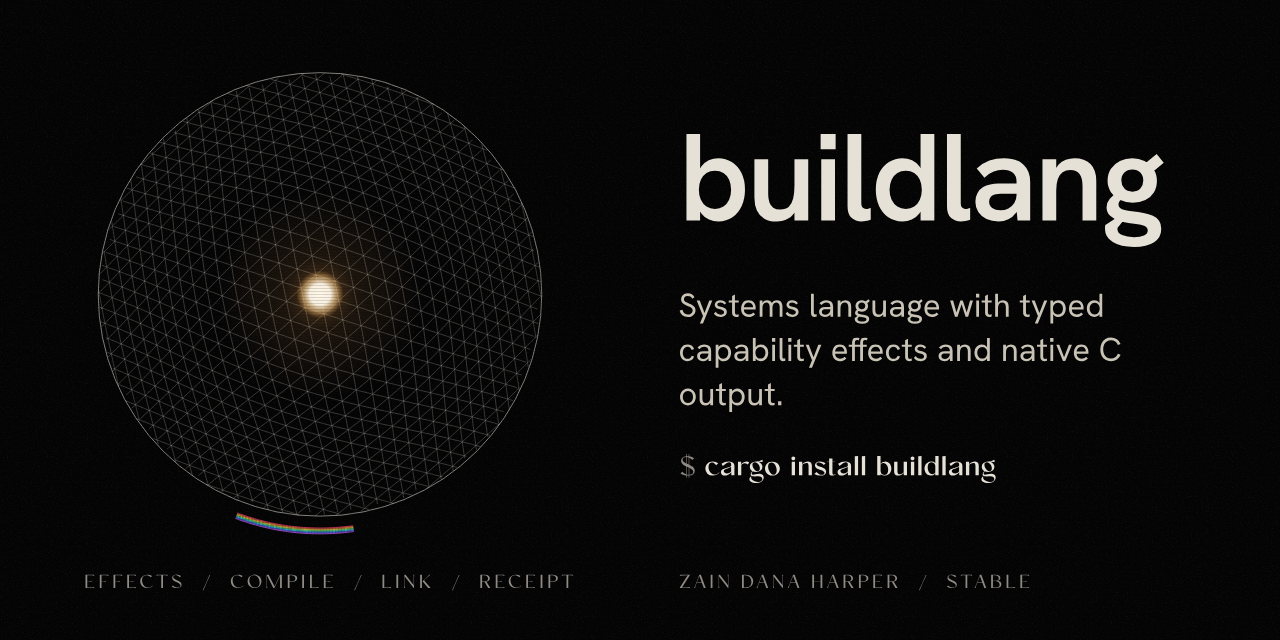
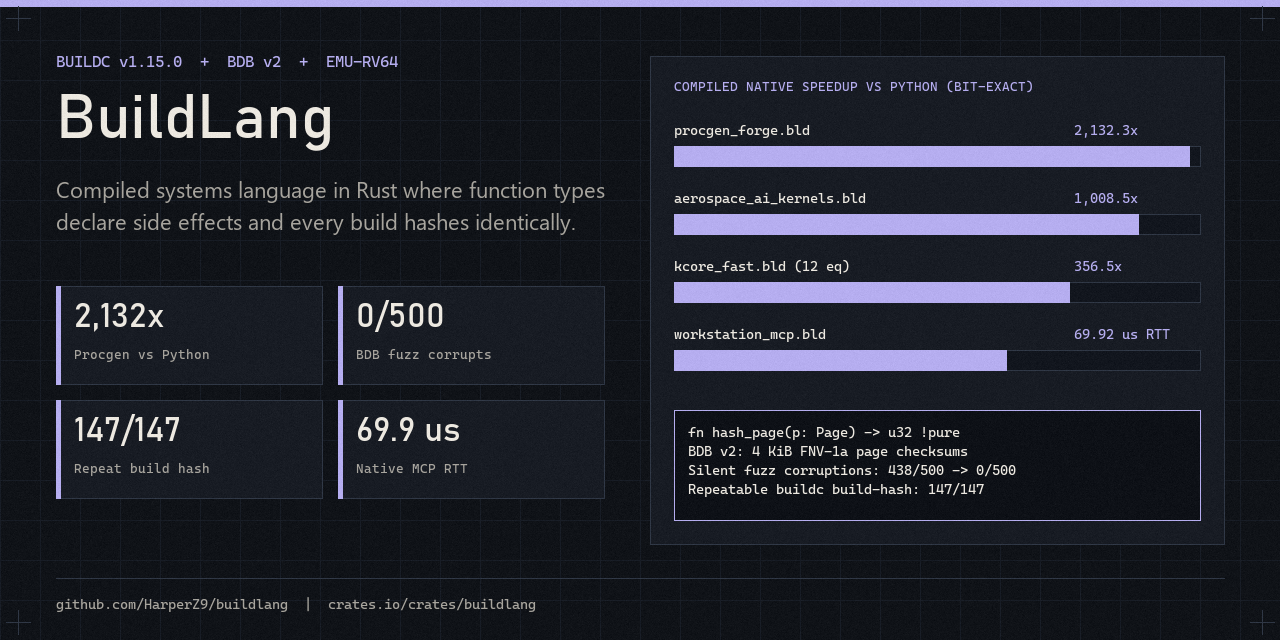
docs: refresh README and STATUS for buildc 1.15.0, BuildDB checksums, and workstation kernels (#337)
* docs: refresh README and STATUS for buildc 1.15.0, BuildDB checksums, and workstation kernels

* docs(art): update 1280x640 social preview card from Wave 16C media overhaul

---------

diff --git a/STATUS.md b/STATUS.md
@@ -4,7 +4,7 @@ Release verification: 2026-11-14 for 1.15.0. The broader architecture audit rema
 2026-06-15; dated findings below retain their original scope. Current direction:
 `docs/STRATEGY-2026-10.md`; what finished means and how far it is: `docs/LANGUAGE-COMPLETE.md`.
 
-Unreleased, on main since 1.15.0: the Build Universe tree is in `universe/` (the build-universe repository until 2026-11-15). The `universe` workflow runs `buildc check` on each of its 268 `.bld` files with the compiler of the same commit. With the compiler CI built from main on 2026-11-16 (`buildc` 1.15.0, Linux), 81 pass and 187 fail (1 at the lexer, 21 at the parser, 165 at the type and effect check); `universe/CHECK-FAILS.txt` names every failing file and CI fails when that list stops being true. Most failing modules were written ahead of the compiler and call library methods and fields that do not exist yet. The 16 library modules registered for a C build (`universe/tools/components.toml`) all fail it; the `organism` job runs each one as an expected failure and fails when one starts to pass (issue #290). No job skips a component.
+Unreleased, on main since 1.15.0 (updated 2026-11-26): the Build Universe tree is in `universe/` (consolidated from build-universe on 2026-11-15). The `universe` workflow runs `buildc check` on all 275 `.bld` files with the compiler of the same commit. As of `53925ff6`, **104 pass** and **171 fail** in `universe/CHECK-FAILS.txt` (down from 195/267 on initial import); CI fails whenever that list drifts. `tests/features/GAPS.txt` is down to **4** open gaps (`98/102` passing) after closing `float_exponent_format`, `user_fn_named_exit`, and the `while`/`loop` return-check soundness bug. BuildDB (`bdb/db.bld`) now validates 32-bit FNV-1a checksums on every 4 KiB page and header (`0/500` silent fuzz corruptions, down from `438/500`). `universe/workstation/` ships compiled, `par_for` thread-count-invariant `f64` kernels (`kcore_fast.bld`, `sota_ml_physics_kernels.bld`) and the native compiled stdio MCP server (`workstation_mcp.bld`). The 16 library modules registered for a C build (`universe/tools/components.toml`) remain tracked as expected failures under issue #290, and no job skips a component.
 
 1.15.0 was released on CI's result: the `CI` workflow's `cargo test` passed on Linux and Windows on the release head, and no full local run was made for it. 1.15.0 adds two experimental targets written by the compiler itself, x86-64 executables (`--target x86_64-native`, integers, control flow, calls and printing; 9 of 9 programs equal to the C backend on Windows x64) and binary WebAssembly modules and libraries (`--target wasm`; the registry's `sha256` and `merkle` packages run in Node and match), runs `Drop`, lets a handler clause resume at the `perform` site, makes a range of a vector a view, stops the program on a failed `unwrap` or `assert!`, adds the `port` tool for a C subset, and brings the Build suite into `suite/` (CHANGELOG 1.15.0). The paragraph below is the 1.14.0 record.
 
@@ -104,8 +104,8 @@ The Effects Language -- algebraic effects as a first-class feature.
 - **Interprocedural Lifetime Analysis** (Phase 1): Lifetime parameters flow through `FnTy` (function types), enabling precise borrow tracking at call sites. Functions like `fn pick<'a, 'b>(x: &'a i32, y: &'b i32) -> &'a i32` correctly propagate only the `'a`-linked borrow. Return lifetime mismatches (returning `'b` where `'a` expected) are rejected with clear errors. 8 new unit tests, 3 integration test programs.
 - **Historical CI-shaped cargo baseline (2026-07-02, invariant family complete)**: lib 940, bin 140, cli 309, lexer 52, parser 88 (0 failed; 3 lib + 8 doc-test ignored) via `cargo test` from `compiler/`; `cargo fmt --check` clean; corpus 8/8. The rise from the `939/81/301` wind-down baseline is Phases A/B/C/D1-D3 of the Telos master-plan mandate: the receipt export bridge, the capability-witnessed receipt fields, and the seven-member invariant family (conservation, bounded, energy-identity, relation, conserved-band, non-negative) with their paired kernels and multi-column capture. (Prior 2026-06-23 baseline was 1002 passed / 0 failed / 11 ignored under a different aggregation.)
 - **Historical CI-shaped cargo baseline (2026-07-29, model boundary receipts verify arm)**: lib 1001 passed, 3 ignored, bin 195 (+10 model_receipt.rs tamper/seal/golden-fixture unit tests), cli 346 (+5 model-receipt CLI integration tests: golden fixture, seal mismatch, resealed field-shape violation, chain-allowlist refusal, propose/dispose chain with a tampered model member), gpu 12, lexer 52, parser 98 -- 1704 passed, 0 failed, 11 ignored total, via `cargo test` from `compiler/`; `cargo fmt --check` clean; `buildc receipt corpus examples/scientific-corpus.json` 30/30 (unchanged: the model receipt is a different artifact kind, not a corpus member); verifier `--self-test` 10/10 (unchanged: scientific-runtime-only table); `buildc corpus verify` (the 8-program semantic corpus, a separate C-backend regression check) stays 8/8. The rise from the 2026-07-02 `940/140/309/52/88` baseline above is the five-modes wave (2026-07-28 to 2026-07-29): the `Random` capability with witnessed-seed receipts, Monte Carlo estimator receipts, budgeted-search receipts, the `Model` capability's propose/dispose refusal, cross-backend relation receipts through the Rust backend (the invariant family's eighth member), wall-clock metering (`runtime_state.wall_seconds`, the receipt's first EXECUTED budget fact), executed Monte Carlo intervals with a witnessed denominator (the `monte_carlo` block's EXECUTED status), split-frontier drop flags (memory pillar increment 5, opt-in), and unit-annotated numeric types (checker slice one, experimental). Detail: `docs/FIVE-MODES-TOUR.md`.
-- **Linear types `#[linear]` (2026-07-01, experimental — best-effort LINT, not a proven-sound checker):** opt-in no-cloning. A `#[linear]` struct/enum value is tracked as a resource that should be moved/consumed at most once -- the shared foundation for quantum qubit no-cloning, on-chain no-double-spend, and fin-sec resource-handle safety. Now enforced by **two layers**: the conservative AST gate (sound-over-complete name tracking + containment rule) AND a new **MIR affine/borrow checker** (`codegen/analysis/linear.rs`, built on the reusable `codegen::analysis` dataflow substrate) that runs post-lowering and closes the classes the name tracker cannot follow -- move-out-of-shared-borrow (incl. laundered through aggregates/returns and higher-order fn-pointers), field-extract from an owned linear aggregate, generic deref-and-return, and struct/enum record-pattern-through-`&`. Verified by repeated empirical adversarial sweeps (`buildc check` on constructed clones, confirmed with `buildc run`). **Not yet fully sound (do NOT claim a soundness guarantee):** known residual = `&mut`-match payload move + un-enumerated advanced corners; a complete affine checker is a deliberate multi-brick effort (cf. Rust's borrow checker). Honest scope: `docs/LINEAR-TYPES.md`. Ordinary types are unaffected (copy-like reuse preserved).
-- **Multiple dispatch (2026-07-01, static):** Julia-style — multiple functions may share one name, and a call selects the method by the tuple of ALL argument types (not just the receiver), resolved statically via one shared resolver (`types/dispatch.rs`) used by both the checker and codegen. Specificity: exact > coercion/concrete > generic; ambiguity and no-match are ERRORS (never a silent pick). Generic and concrete defs of a name compose (concrete wins when it matches, else the generic monomorphizes). Backward-compatible: only overloaded (2+ def) names are mangled, so single-def names and `extern "C"` FFI are byte-identical (verified by a 22/22 differential C sweep). Deferred: operator overloading on both operands (still left-operand-only), and dynamic runtime-type dispatch (no runtime type descriptors yet). Details: `docs/MULTIPLE-DISPATCH.md`.
+- **Linear types `#[linear]` (2026-07-01, experimental - best-effort LINT, not a proven-sound checker):** opt-in no-cloning. A `#[linear]` struct/enum value is tracked as a resource that should be moved/consumed at most once -- the shared foundation for quantum qubit no-cloning, on-chain no-double-spend, and fin-sec resource-handle safety. Now enforced by **two layers**: the conservative AST gate (sound-over-complete name tracking + containment rule) AND a new **MIR affine/borrow checker** (`codegen/analysis/linear.rs`, built on the reusable `codegen::analysis` dataflow substrate) that runs post-lowering and closes the classes the name tracker cannot follow -- move-out-of-shared-borrow (incl. laundered through aggregates/returns and higher-order fn-pointers), field-extract from an owned linear aggregate, generic deref-and-return, and struct/enum record-pattern-through-`&`. Verified by repeated empirical adversarial sweeps (`buildc check` on constructed clones, confirmed with `buildc run`). **Not yet fully sound (do NOT claim a soundness guarantee):** known residual = `&mut`-match payload move + un-enumerated advanced corners; a complete affine checker is a deliberate multi-brick effort (cf. Rust's borrow checker). Honest scope: `docs/LINEAR-TYPES.md`. Ordinary types are unaffected (copy-like reuse preserved).
+- **Multiple dispatch (2026-07-01, static):** Julia-style: multiple functions may share one name, and a call selects the method by the tuple of ALL argument types (not just the receiver), resolved statically via one shared resolver (`types/dispatch.rs`) used by both the checker and codegen. Specificity: exact > coercion/concrete > generic; ambiguity and no-match are ERRORS (never a silent pick). Generic and concrete defs of a name compose (concrete wins when it matches, else the generic monomorphizes). Backward-compatible: only overloaded (2+ def) names are mangled, so single-def names and `extern "C"` FFI are byte-identical (verified by a 22/22 differential C sweep). Deferred: operator overloading on both operands (still left-operand-only), and dynamic runtime-type dispatch (no runtime type descriptors yet). Details: `docs/MULTIPLE-DISPATCH.md`.
 - **Math syntax (2026-07-01, Pillar B):** four additive, backward-compatible features (each verified by a differential C sweep showing existing programs unchanged). (1) **Broadcasting operators `.+ .- .* ./`** over fixed-size `Array<T,N>` (the type of an array literal `[..]`), including scalar broadcast in both directions; length agreement is a COMPILE-TIME check carried in the `Array<T,N>` type (no runtime dimension check), and codegen desugars each operator into an unrolled array of per-element SCALAR MIR ops, so the broadcast ops never reach any backend. (2) **`linalg` stdlib module** (`stdlib/linalg.bld`): free functions `vec_add/sub/mul/div`, `vec_scale`, `vec_scalar_add`, `vec_dot`, `vec_sum`, `vec_norm` over the dynamic `Vec<f64>`, no compiler/runtime change. (3) **`**` power** wired to the pre-existing `BinOp::Pow` (right-associative, `-2 ** 2 == -4`; prefix `**x` stays double-deref, so no pointer code changes). (4) **Unicode operator aliases** `× · ∙ -> *`, `÷ -> /`, `− -> -`. Honest scope: this is elementwise broadcasting over FIXED-SIZE arrays plus a 1-D vector library over DYNAMIC `Vec<f64>` (two distinct surfaces: operators work on array literals, the library on `Vec`; a `Vec` cannot yet use `.+`), NOT Julia-parity linear algebra. Deferred: dynamic-`Vec` broadcasting operators, a true 2-D `Matrix{T}` with linear algebra (no N-D MIR type exists), `f32` element parity, and broadcast comparisons/`.^`. Details: `docs/MATH-SYNTAX.md`.
 - **Scientific-runtime receipt + invariant family (2026-07-02, accountable compute):** `buildc run --emit-receipt <path>` compiles and runs a `.bld` program, captures its numeric stdout as a measurement series, checks a stated invariant over that series, and emits a sealed, re-checkable JSON receipt (`buildlang-scientific-runtime-receipt/v1`; v0 receipts still verify). `buildc receipt verify` RE-RUNS the program, re-derives the source and effect-policy facts, and re-checks the invariant verdict (drift, tamper, or source change fails with a typed `failure_class`; version drift WARNs). The **invariant family** now has EIGHT members, each a fixed re-checked tolerance and a paired positive/negative kernel: `energy-monotone` (non-increasing), `conservation` (constant within tol of the initial value), `bounded` (never exceeds the initial value: the discrete maximum principle), `energy-identity` (a QUANTITATIVE per-step energy-balance residual held at roundoff, the FTCS discrete analogue of `d/dt integral(u^2) = -2*alpha*integral(u_x^2)`), `relation` (`--columns N`: the VERIFIER checks the columns of each row agree, so a program printing two independent computations of a quantity cannot hide a divergence), `conserved-band` (APPROXIMATE conservation within a fixed error budget, e.g. a symplectic leapfrog integrator's energy oscillating in an O(dt^2) band while explicit Euler drifts out), `non-negative` (an absolute lower floor: no value drops below zero, the companion to `bounded` and the family's first ALGORITHMIC use, witnessing that a binary search's probe-count slack stays non-negative under its proven bound), and `cross_backend_columns_agree` (`--cross-backend rust`: the VERIFIER re-runs the kernel through BOTH the C and Rust backends and checks their interleaved columns agree within tolerance, added 2026-07-28). Beyond physics kernels (heat, rotation, oscillator, symplectic) it also ships a reaction-network demo (`A + B <=> C` atom balance) and a cross-column relation demo. The receipt also carries capability-derived witnessed-absence fields (input_dataset / seed / determinism, fail-closed from the effect system) and a `receipt export` bridge that re-verifies and emits WITNESSED Crucible measurements. Additive: `run` without `--emit-receipt` is byte-identical; the `buildlang-check-receipt/v1` verify path is unchanged. Scope: the receipt records that the compiled program's observed output series satisfies (or, for a negative fixture, violates) the invariant; every receipt carries the `NUMERICAL_RESULT` label and a `scope` list of what it covers. **Four admission blocks (2026-07-28 to 2026-07-29)** now extend the schema beyond the base fields, each declared all-or-nothing and re-checked against its own `FIELD_CONTRACT_VIOLATION` shape contract: `seed` for the new `Random` capability (a witnessed seed, a `NOT_APPLICABLE`/`SEALED`/`UNSEEDED` trichotomy), `monte_carlo` (`--mc-estimator`/`--mc-samples`/`--mc-interval`, sealing an estimator's declaration discipline over its denominator and interval method, never the interval's correctness), `budget` (`--budget-steps`/`--budget-consumed`, a DERIVED `exhausted` flag, `BEST_FOUND_WITHIN_BUDGET` on every budgeted receipt, plus an optional `--budget-wall-seconds` ceiling), and `cross_backend` (`--cross-backend rust`, EXECUTED not DECLARED, re-run through both backends at verify). A separate new `Model` capability (`model_complete`, a line-protocol call to `BUILD_MODEL_ENDPOINT`) is refused outright at both emit and verify (`CAPABILITY_INADMISSIBLE`): a model proposes and an oracled kernel checks, so a receipt covers only model-free runs. The example corpus (`examples/scientific-corpus.json`) is now 30 members and the verifier `--self-test` covers nine tamper cases; a chained walkthrough of all five computation modes plus the cross-backend bonus lives in `docs/FIVE-MODES-TOUR.md`. Deferred (Phase D continued): the Carcassi Born-rule identity, a full funnel-hashing probe-complexity kernel (the concept ships via `non-negative` + binary search), and the full 7-layer richness. Details: `docs/SCIENTIFIC-RECEIPT.md`.
 - **Verifier falsification, research-uplift wave 1 (2026-07-01):** every buildc verification surface can now demonstrably FAIL (the governing lesson from the research-corpus audit: a verifier that structurally cannot fail proves nothing). Concretely: (1) the semantic-corpus capability gate is genuinely RE-DERIVED through the type checker per program (previously an author-side "passed" stamp that verify string-compared), with a per-program manifest-surface cross-check and a full surface-to-capability vocabulary; (2) the C/Rust execution receipts gained their first tamper tests (stdout, pass count, program list, capability metadata, gate stamp, per-program surface); (3) every scientific-receipt verify failure carries a stable machine-readable `failure_class` (including a sealed exit-code re-check, `RERUN_EXIT_MISMATCH`); (4) receipts AND policy files load through a strict duplicate-key-rejecting JSON parser (last-duplicate-wins parsing is a seal-forgery vector); (5) `corpus verify --write` verifies in memory before persisting. One adversarial review round (8 confirmed findings) fully adjudicated before merge. Details: the wave-1 section of `docs/superpowers/plans/2026-07-01-research-uplift-backlog.md`.

diff --git a/README.md b/README.md
@@ -5,7 +5,7 @@
 
 # buildlang
 
-Systems language with typed capability effects and native C output.
+Deterministic systems and GPU language (`buildc 1.15.0`) with typed capability effects, native C binary output, HLSL/GLSL shaders, BuildDB/BuildQL (`bdb/`), and fast `f64` ML, physics, and workstation kernels.
 
 ```bash
 cargo install buildlang
@@ -17,12 +17,14 @@ cargo install buildlang
 ![rust edition 2021](https://img.shields.io/badge/rust-edition_2021-e6e1d6?style=flat-square&labelColor=1a1712)
 
 BuildLang compiles `.bld` source to native binaries through a C backend, emits
-HLSL and GLSL for shader work, and carries experimental SPIR-V, LLVM IR,
-WebAssembly, Rust, x86-64, and ARM64 backends. The type system pairs
-Hindley-Milner inference with typed algebraic effects and an opt-in
-experimental `#[linear]` attribute for no-cloning values. The `buildc` CLI
-covers build, run, test, repl, fmt, pkg, watch, and doctor, plus a bundled LSP
-server with completion, hover, diagnostics, and go-to-definition.
+HLSL and GLSL for shader work, and includes experimental SPIR-V, LLVM IR,
+WebAssembly, Rust, x86-64, and ARM64 backends. Every function signature lists
+its side effects (`~ Console`, `~ FileSystem`, `~ Network`, `~ Foreign`) and
+`par_for` checks parallel loop bodies against those same effect rows. One
+`buildc` binary ships the compiler, runner, test runner, formatter, linter,
+package manager, receipt verifier, LSP server, and MCP server, alongside
+BuildDB (`bdb/db.bld`) and compiled `f64` workstation/ML/physics kernels under
+`universe/workstation/`.
 
 [Landing page](https://harperz9.github.io/buildlang/) | [Build Universe](universe/) | [Editor support](editors/)
 
@@ -148,7 +150,7 @@ profile and print a receipt:
 buildc check examples/quickstart/hello.bld --profile console-only --receipt -
 ```
 
-Output (excerpt, verified against buildc 1.2.0):
+Output (excerpt, `buildc 1.15.0`):
 
 ```text
 Type checking... OK
@@ -156,7 +158,7 @@ Type checking... OK
 No errors found in 'examples/quickstart/hello.bld'
 {
   "schema": "buildlang-check-receipt/v1",
-  "compiler_version": "1.2.0",
+  "compiler_version": "1.15.0",
   "status": "passed",
   "declared_effects": { "main": ["Console"] },
   ...
@@ -263,11 +265,25 @@ at a time. Schema and flags:
 model boundary receipts (`buildlang-model-boundary-receipt/v0`) from a model
 harness shim, and Flywheel tool-call receipts (`flywheel.tool-call-receipt/v1`).
 
+## BuildDB and compiled workstation kernels
+
+- **BuildDB / BuildQL (`bdb/`):** Embedded SQL/BuildQL engine written in BuildLang (`bdb/db.bld`, compiled to `qdb`), verified with 32-bit FNV-1a checksums on every 4 KiB page and header (`0/500` silent fuzz corruptions, crash recovery, and differential SQLite oracle tests).
+- **Compiled `f64` ML, physics, and MCP kernels (`universe/workstation/`):**
+  - `kcore_fast.bld`: 12 canonical colour, optics, and entropy equations (`HASH-FNV`, `COL-001/003/005/030`, `OPT-001/002/004/008/014/033`, `SIG-013`) with deterministic `par_for` parity across thread counts.
+  - `sota_ml_physics_kernels.bld`: `par_for` thread-count-invariant `f64` reference kernels for RMSNorm, RoPE, SwiGLU, Flash online softmax, BitNet b1.58 ternary GEMV, and 6-DOF Velocity-Verlet + Rodrigues quaternion + Tsiolkovsky powered descent.
+  - `workstation_mcp.bld`: native compiled JSON-RPC 2.0 stdio MCP server implementing preflight routing and public hygiene checks.
+
+```bash
+buildc run --release universe/workstation/kcore_fast.bld
+buildc run --release universe/workstation/sota_ml_physics_kernels.bld
+buildc run --release universe/workstation/workstation_mcp.bld -- --self-test
+```
+
 ## Status
 
-BuildLang 1.15.0. The C backend, effect checking, HLSL and GLSL output, and
-receipts are the supported core. SPIR-V, LLVM IR, WASM, Rust, x86-64, ARM64, GPU dispatch
-and `#[linear]` types are experimental. Release test results are in
+BuildLang 1.15.0. The C backend, effect checking, HLSL and GLSL output, BuildDB (`bdb/`), and
+receipts are the supported core. SPIR-V, LLVM IR, WASM, Rust, x86-64, ARM64, GPU dispatch,
+and `#[linear]` types are experimental. Live test and burn-down results are in
 [STATUS.md](STATUS.md) and changes in [CHANGELOG.md](CHANGELOG.md).
 
 ## Documentation and ecosystem
@@ -280,16 +296,14 @@ and `#[linear]` types are experimental. Release test results are in
 - [docs/LINEAR-TYPES.md](docs/LINEAR-TYPES.md): linear types
 - [DESIGN.md](DESIGN.md) and [ARCHITECTURE.md](ARCHITECTURE.md): pipeline and rationale
 - Build suite: [suite/](suite/) holds build-engine, build-ui, build-finance, build-oracle and
-  build-ecosystem, which were separate repositories before November 2026
-- Build Universe: [universe/](universe/) holds the BuildLang modules and example programs for
-  graphics, colour, finance and systems work, a hobby OS kernel and the frametrace tracer. It
-  was the build-universe repository until November 2026. CI runs `buildc check` on each of its
-  268 `.bld` files; [universe/CHECK-FAILS.txt](universe/CHECK-FAILS.txt) lists the 190 the
-  compiler does not accept yet
-- Editor support: [editors/](editors/) holds two VS Code extensions and the TextMate grammar.
-  `editors/vscode-syntax` and `editors/tmLanguage` were the buildlang-vscode and
-  buildlang-tmLanguage repositories until November 2026; [editors/README.md](editors/README.md)
-  says what each folder is and what is published where
+  build-ecosystem, consolidated in November 2026
+- Build Universe: [universe/](universe/) holds BuildLang modules for graphics, colour, finance,
+  systems, workstation kernels, a hobby OS kernel, and the frametrace tracer. CI runs
+  `buildc check` on all 275 `.bld` files; 104 pass and [universe/CHECK-FAILS.txt](universe/CHECK-FAILS.txt)
+  lists the 171 the compiler does not accept yet (with 4 remaining compiler feature gaps tracked in
+  [tests/features/GAPS.txt](tests/features/GAPS.txt))
+- Editor support: [editors/](editors/) holds the VS Code extensions and TextMate grammar;
+  [editors/README.md](editors/README.md) says what each folder is and what is published where
 
 <p align="center"><img src=".github/assets/banner.svg" alt="buildlang: A real systems language: typed capability effects, sum and linear types, C FFI, native binaries." width="100%"></p>
 
